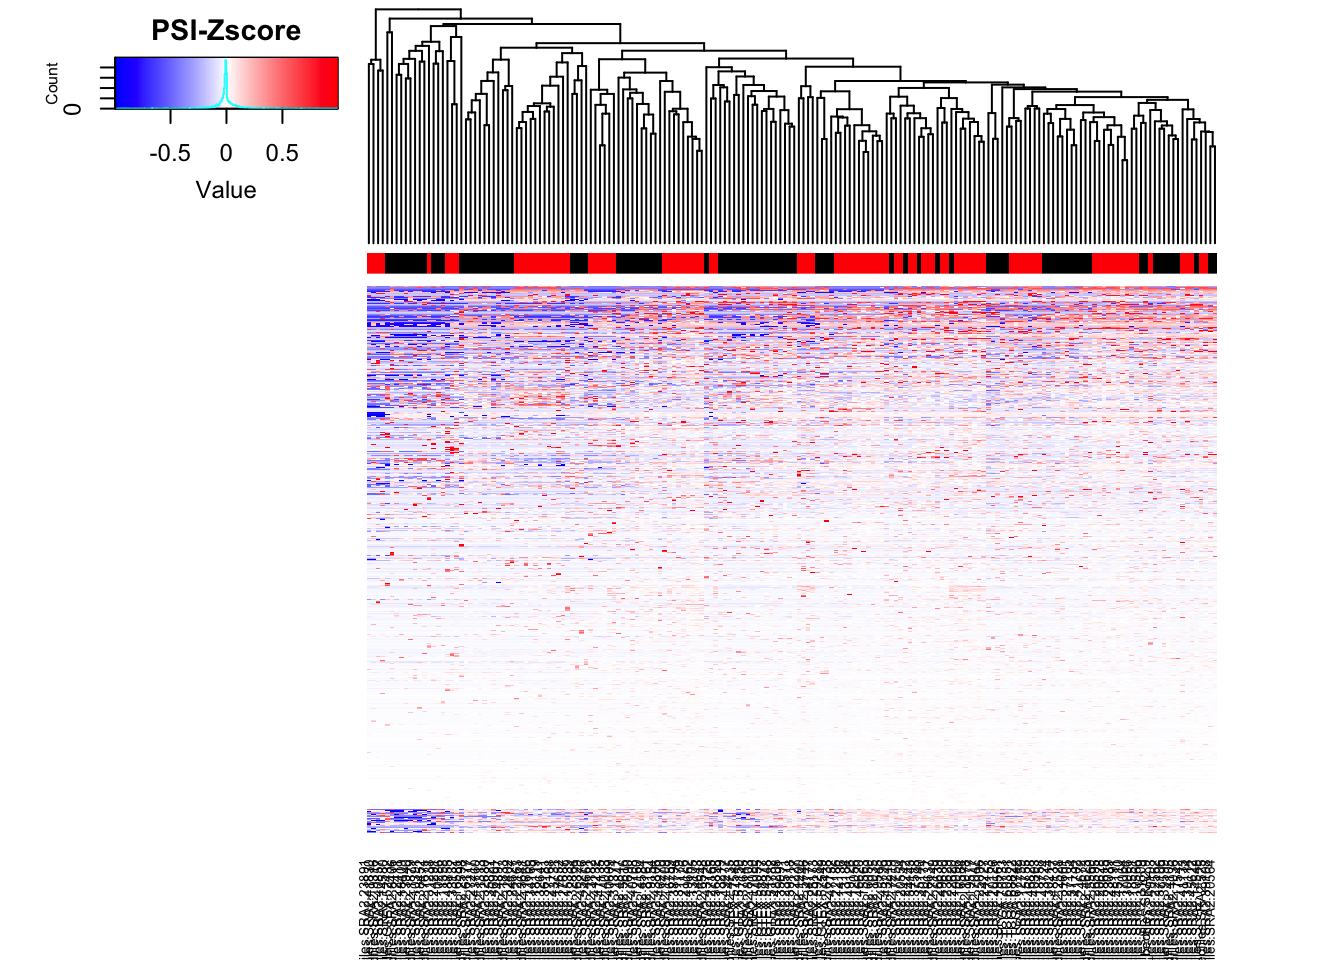
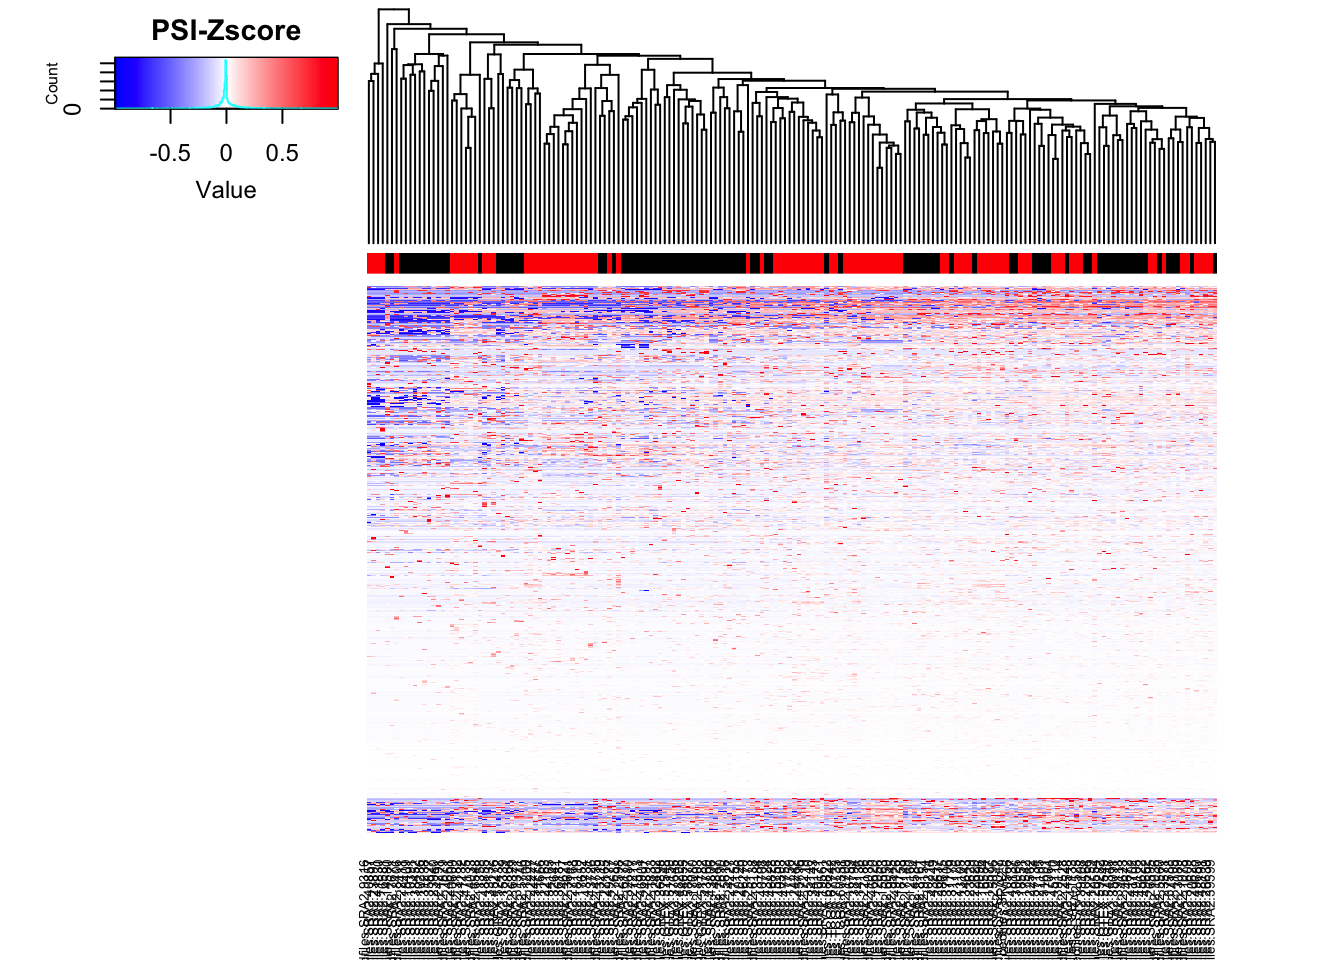
update site

diff --git a/docs/20190625.ds_blood_sf3b1.html b/docs/20190625.ds_blood_sf3b1.html
@@ -527,10 +527,10 @@ This reproducible <a href="http://rmarkdown.rstudio.com">R Markdown</a> analysis
 <div class="panel panel-default">
 <div class="panel-heading">
 <p class="panel-title">
-<a data-toggle="collapse" data-parent="#workflowr-checks" href="#strongRepositoryversionstrongahrefhttpsgithubcombfairkunsnaptronanalysistreee10b2f8a2887f1ab7954752bf8045f87be011078targetblanke10b2f8a"> <span class="glyphicon glyphicon-ok text-success" aria-hidden="true"></span> <strong>Repository version:</strong> <a href="https://github.com/bfairkun/snaptron-analysis/tree/e10b2f8a2887f1ab7954752bf8045f87be011078" target="_blank">e10b2f8</a> </a>
+<a data-toggle="collapse" data-parent="#workflowr-checks" href="#strongRepositoryversionstrongahrefhttpsgithubcombfairkunsnaptronanalysistree889a226f3488c21ca62380b17e137adc840d473btargetblank889a226a"> <span class="glyphicon glyphicon-ok text-success" aria-hidden="true"></span> <strong>Repository version:</strong> <a href="https://github.com/bfairkun/snaptron-analysis/tree/889a226f3488c21ca62380b17e137adc840d473b" target="_blank">889a226</a> </a>
 </p>
 </div>
[2 lines of base64/hex data omitted]
 <div class="panel-body">
 <p>
 Great! You are using Git for version control. Tracking code development and connecting the code version to the results is critical for reproducibility. The version displayed above was the version of the Git repository at the time these results were generated. <br><br> Note that you need to be careful to ensure that all relevant files for the analysis have been committed to Git prior to generating the results (you can use <code>wflow_publish</code> or <code>wflow_git_commit</code>). workflowr only checks the R Markdown file, but you know if there are other scripts or data files that it depends on. Below is the status of the Git repository when the results were generated:
@@ -580,6 +580,40 @@ Message
 </tr>
 </thead>
 <tbody>
+<tr>
+<td>
+Rmd
+</td>
+<td>
+<a href="https://github.com/bfairkun/snaptron-analysis/blob/889a226f3488c21ca62380b17e137adc840d473b/analysis/20190625.ds_blood_sf3b1.Rmd" target="_blank">889a226</a>
+</td>
+<td>
+Benjmain Fair
+</td>
+<td>
+2019-06-25
+</td>
+<td>
+update site
+</td>
+</tr>
+<tr>
+<td>
+html
+</td>
+<td>
+<a href="https://rawcdn.githack.com/bfairkun/snaptron-analysis/889a226f3488c21ca62380b17e137adc840d473b/docs/20190625.ds_blood_sf3b1.html" target="_blank">889a226</a>
+</td>
+<td>
+Benjmain Fair
+</td>
+<td>
+2019-06-25
+</td>
+<td>
+update site
+</td>
+</tr>
 <tr>
 <td>
 Rmd
@@ -866,6 +900,17 @@ Date
 <tbody>
 <tr>
 <td>
+<a href="https://github.com/bfairkun/snaptron-analysis/blob/889a226f3488c21ca62380b17e137adc840d473b/docs/figure/20190625.ds_blood_sf3b1.Rmd/unnamed-chunk-3-1.png" target="_blank">889a226</a>
+</td>
+<td>
+Benjmain Fair
+</td>
+<td>
+2019-06-25
+</td>
+</tr>
+<tr>
+<td>
 <a href="https://github.com/bfairkun/snaptron-analysis/blob/e10b2f8a2887f1ab7954752bf8045f87be011078/docs/figure/20190625.ds_blood_sf3b1.Rmd/unnamed-chunk-3-1.png" target="_blank">e10b2f8</a>
 </td>
 <td>
@@ -993,7 +1038,7 @@ Benjmain Fair
 <p>PCA and heatmap of differentially spliced introns</p>
 <pre class="r"><code>#Get top intron within each cluster (by delta-psi) then subset the top 1000 clusters by Pval. This is the top1000 introns that will be used to plot heatmap of PSI
 Top1000Introns &lt;- leafcutter.merged %&gt;%
-  mutate(abs.deltapsi = abs(deltapsi)) %&gt;%
+  mutate(abs.deltapsi = abs(logef)) %&gt;%
   group_by(cluster) %&gt;%
   slice(which.max(abs.deltapsi)) %&gt;%
   ungroup() %&gt;%
